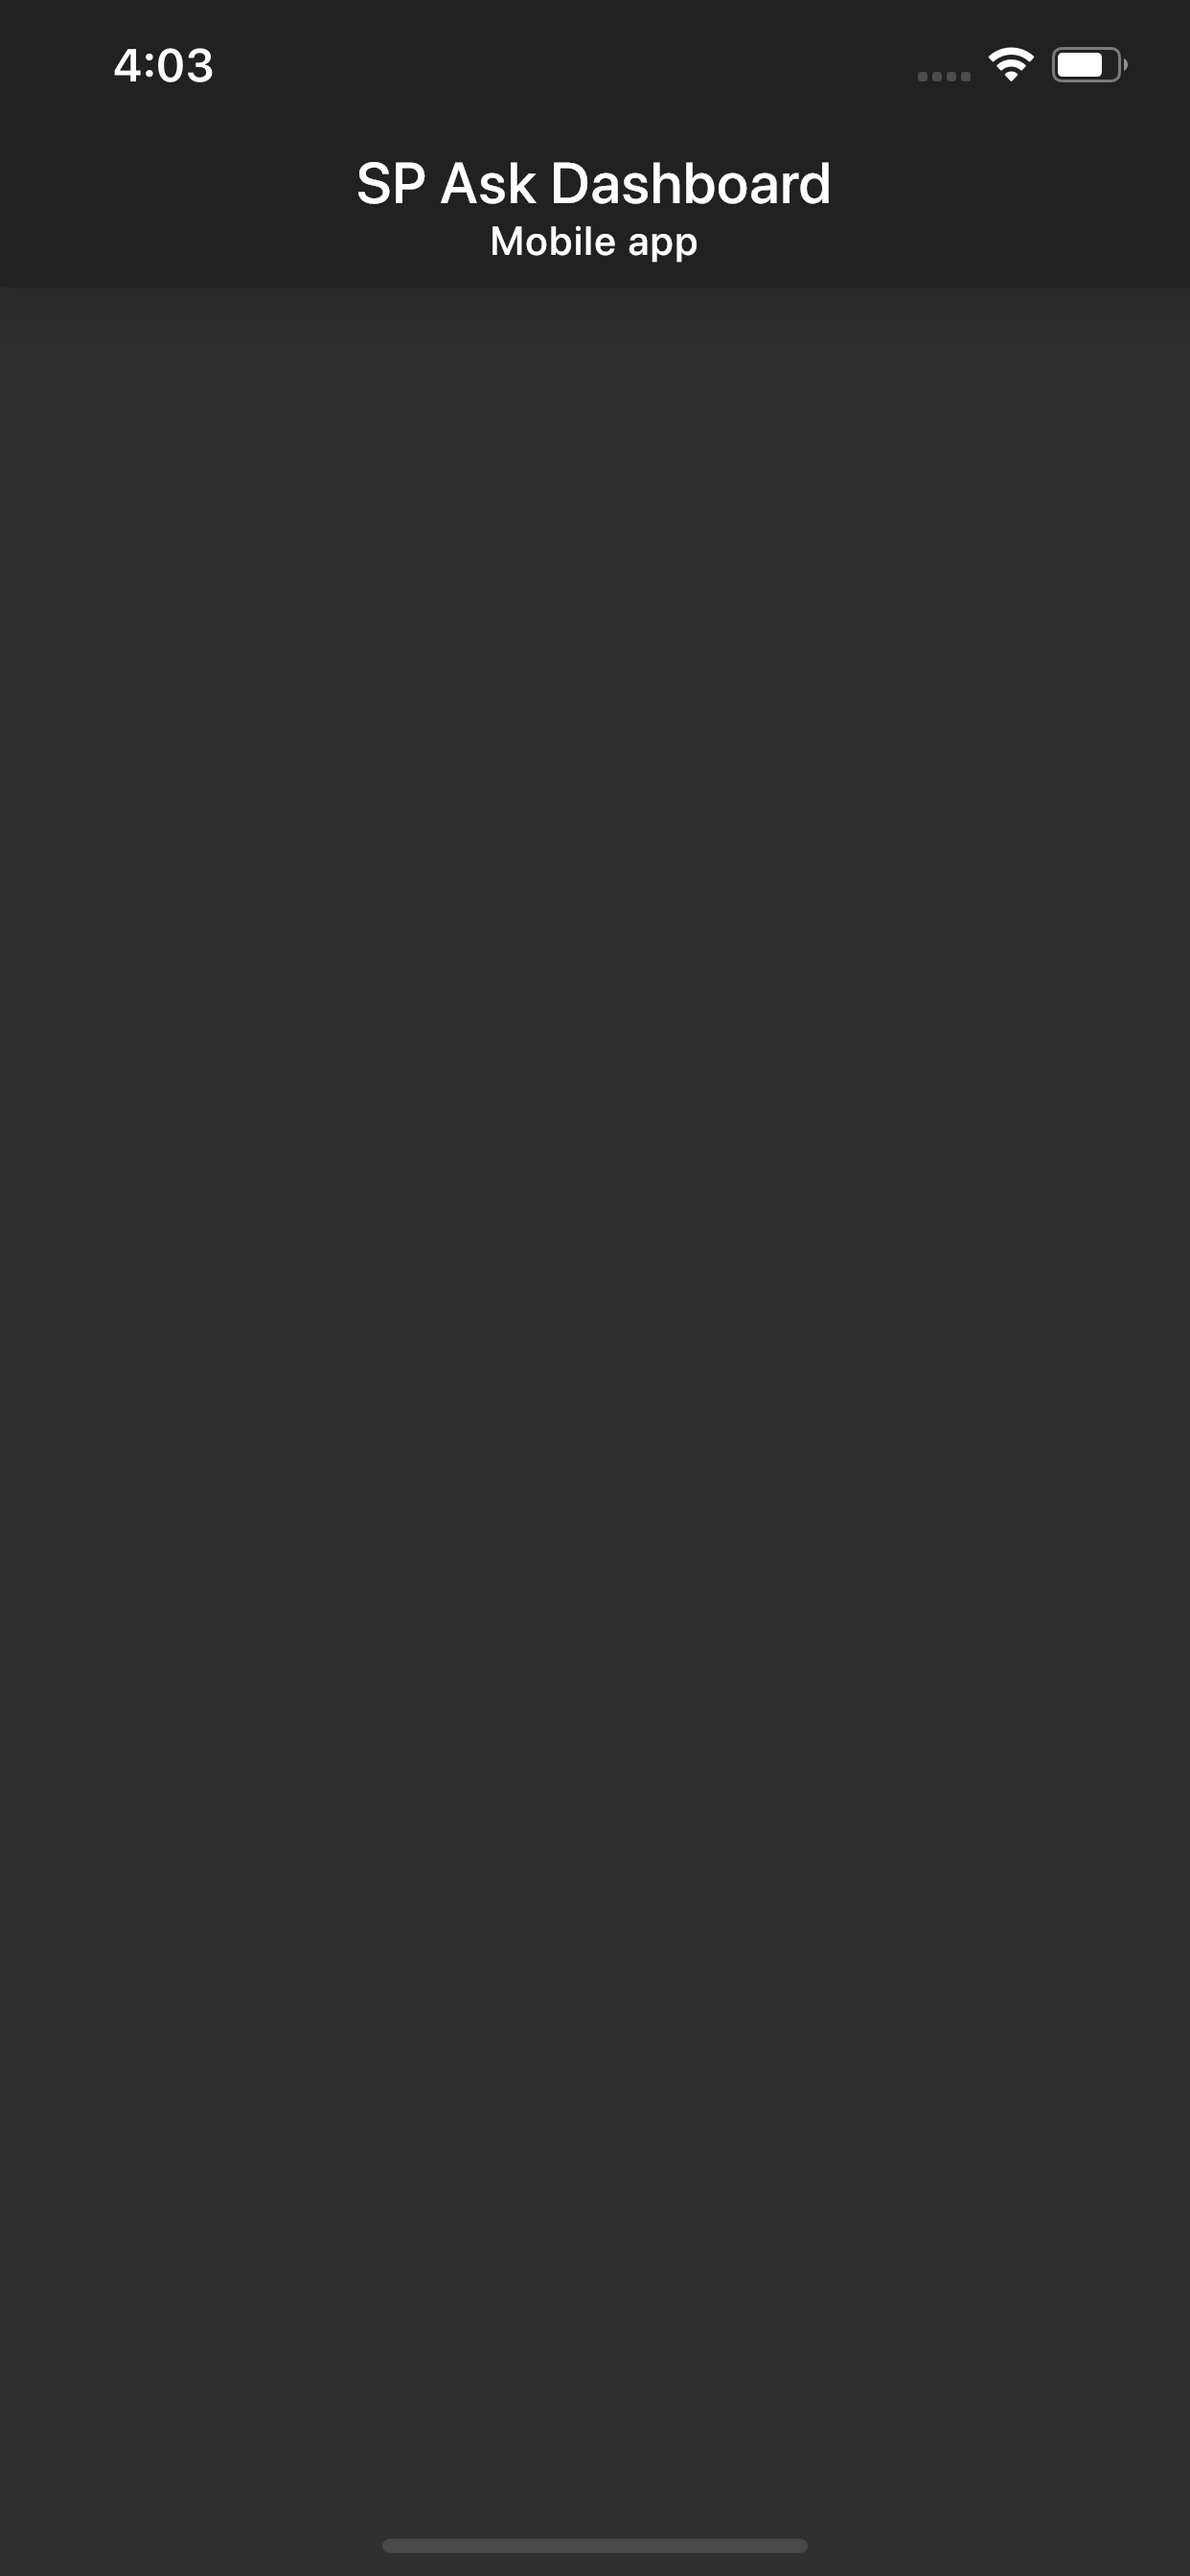
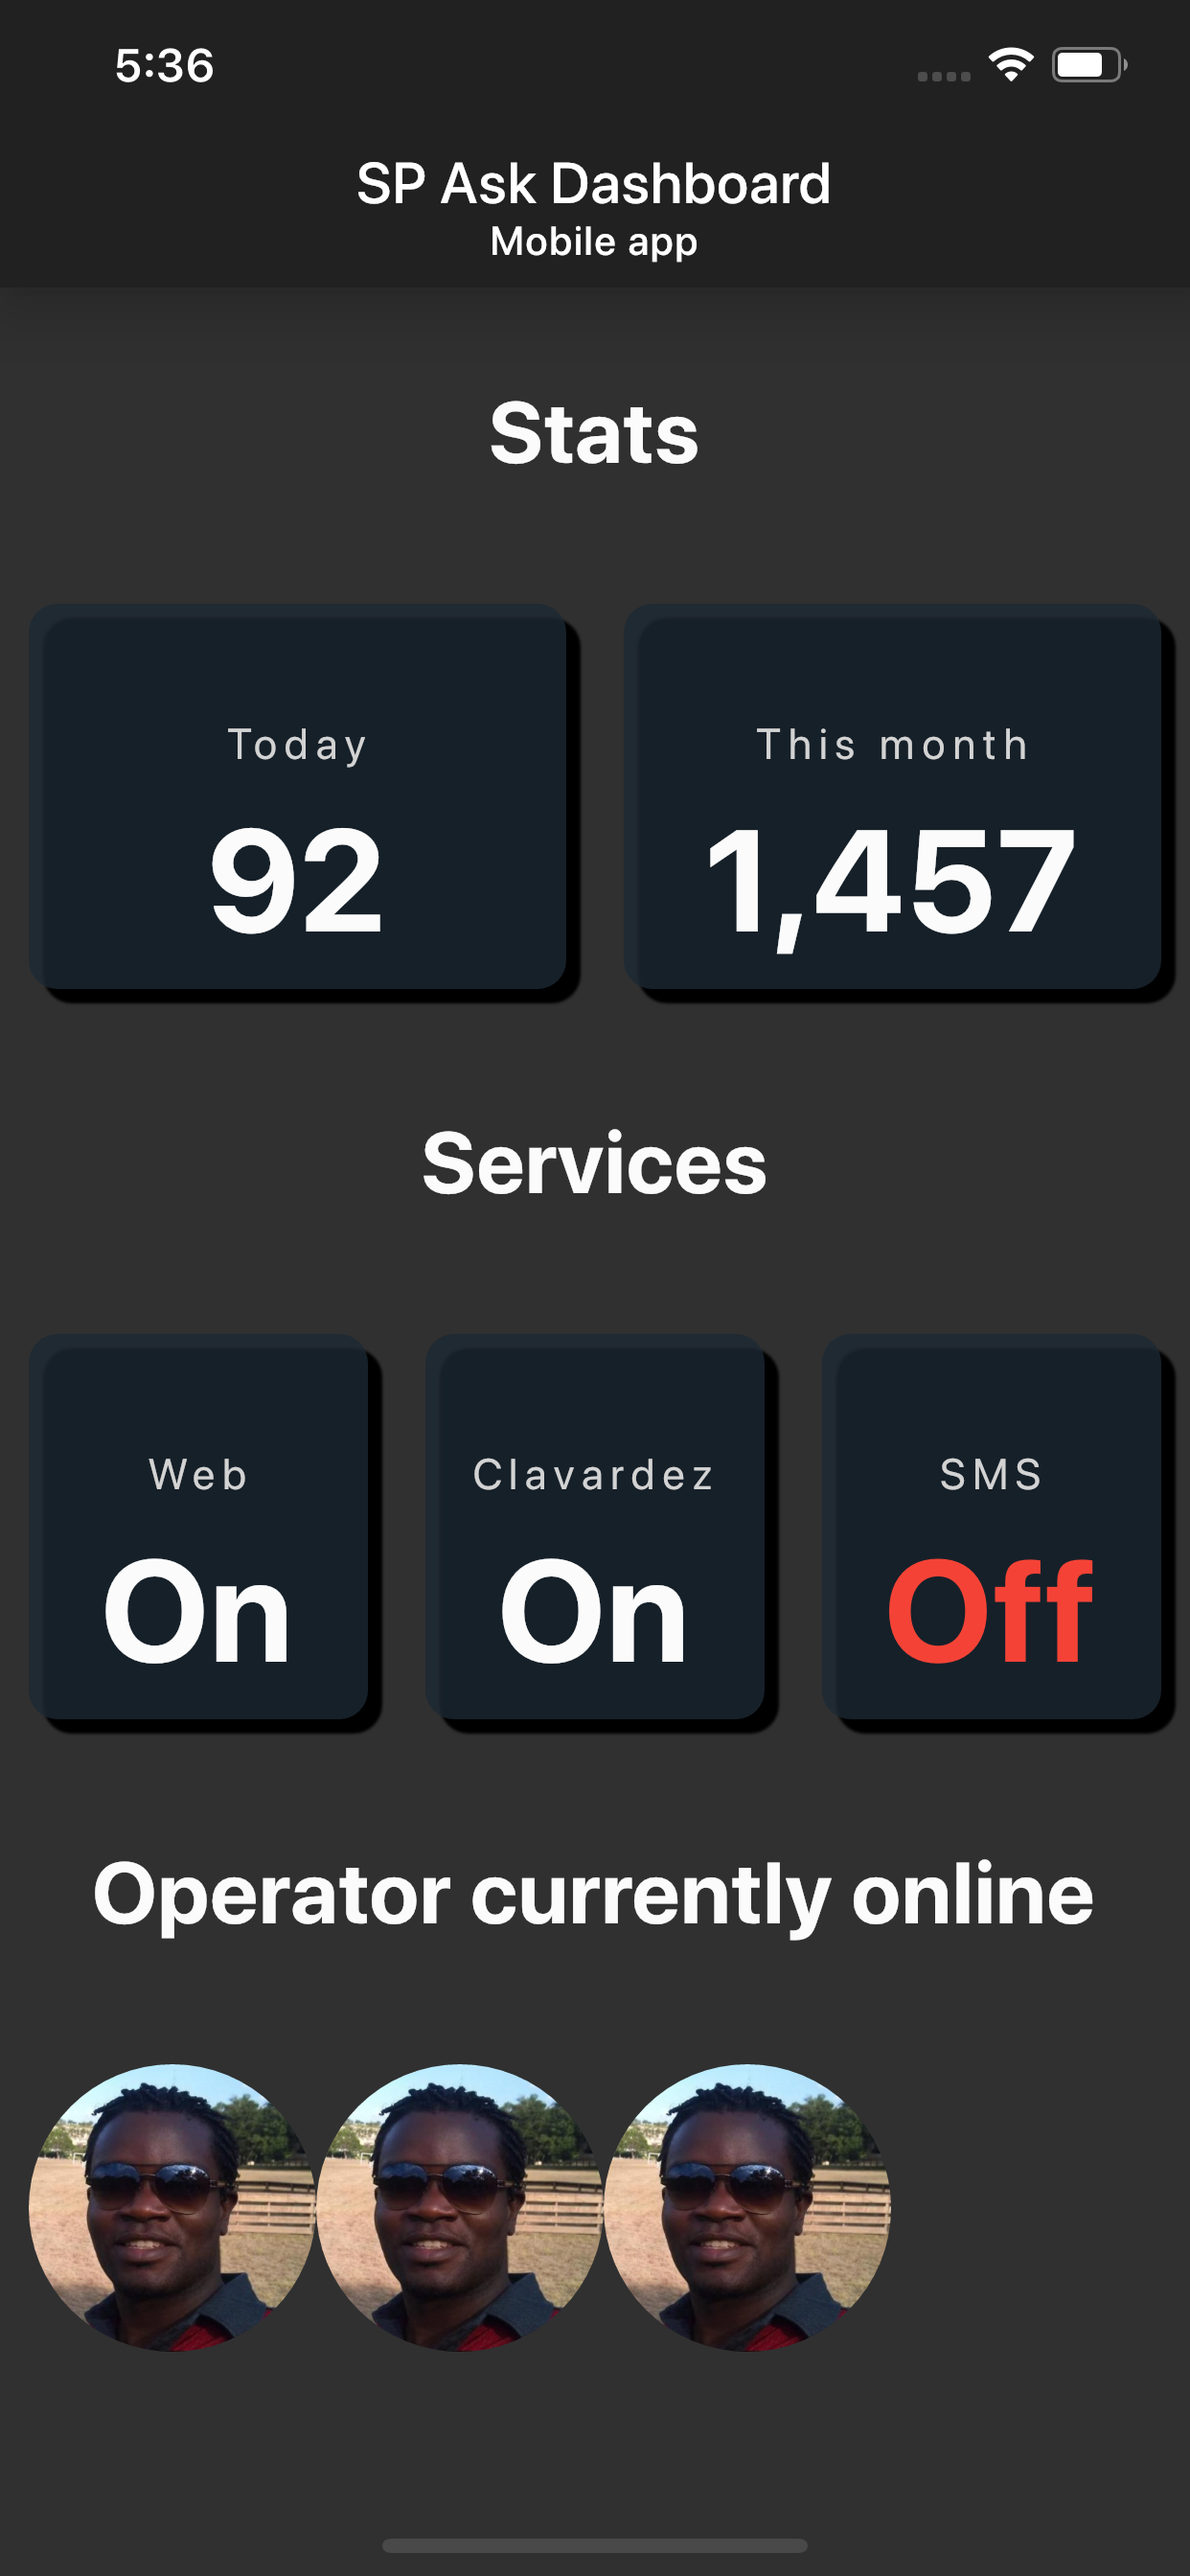
screenshots

diff --git a/lib/screens/homepage.dart b/lib/screens/homepage.dart
@@ -4,6 +4,7 @@ import 'package:flutter/services.dart';
 import 'package:sp_ask_dashboard_mobile_app_layout/screens/theame.dart';
 
 class MyApp extends StatefulWidget {
+
   MyApp({Key key}) : super(key: key);
 
   @override
@@ -11,13 +12,48 @@ class MyApp extends StatefulWidget {
 }
 
 class _MyAppState extends State<MyApp> {
+
+        final List<int> numbers = [1, 2, 3, 5, 8, 13, 21, 34, 55];
+  int age = 17;
+  int weight = 50;
+
+  int height = 180;
+  double maxHeight = 220;
+  double minHeight = 120;
+
+  ageIncrement(){
+    setState(() {
+     age++; 
+    });
+  }
+
+  ageDecrement(){
+    setState(() {
+     age--; 
+    });
+  }
+
+  weightIncrement(){
+    setState(() {
+     weight++; 
+    });
+  }
+
+  weightDecrement(){
+    setState(() {
+     weight--; 
+    });
+  }
   @override
   Widget build(BuildContext context) {
+
+
     SystemChrome.setPreferredOrientations([DeviceOrientation.portraitUp,
     DeviceOrientation.portraitDown]);
     //var deviceSize = MediaQuery.of(context).size;
 
     return MaterialApp(
+      
       theme: ThemeData.dark(),
       debugShowCheckedModeBanner: false,
       title: 'Mockup SP dashboard',
@@ -31,6 +67,7 @@ class _MyAppState extends State<MyApp> {
             mainAxisSize: MainAxisSize.max,
             mainAxisAlignment: MainAxisAlignment.center,
             children: <Widget>[
+              
               new Text(
                 "SP Ask Dashboard",
                 style: TextStyle(fontSize: 20.0),
@@ -44,30 +81,55 @@ class _MyAppState extends State<MyApp> {
         ),
       ),
        body: new Column(
+         
               //crossAxisAlignment: CrossAxisAlignment.center,
              // mainAxisAlignment: MainAxisAlignment.center,
               children: <Widget>[
+
+
+                Padding(padding: EdgeInsets.all(16.0),),
+                Row(
+                  mainAxisAlignment: MainAxisAlignment.center,
+                  children: <Widget>[
+                    Text('Stats',style: headlineTitle),
+                  ],
+                ),
+                Padding(padding: EdgeInsets.all(16.0),),
+
                 Row(
                   mainAxisAlignment: MainAxisAlignment.spaceBetween,
                   children: <Widget>[
+                    
                   // Services
 Expanded(
                   flex: 1,
                   child: Container(
                     margin: EdgeInsets.all(10.0),
-                    height: MediaQuery.of(context).size.height * 0.25,
+                    //height: MediaQuery.of(context).size.height * 0.25,
                     decoration: BoxDecoration(
+                      boxShadow: [
+                  BoxShadow(
+                    offset: Offset(
+                      5.0, // horizontal, move right 10
+                      5.0, // vertical, move down 10
+                    ),
+                  )
+                ],
                       borderRadius: BorderRadius.circular(10.0),
                       color: primary
                     ),
                     child: Column(
                       mainAxisAlignment: MainAxisAlignment.center,
                       children: <Widget>[
-                       Image.asset('images/male.png',height: 100.0,width: 100.0,),
+                       //Image.asset('images/male.png',height: 100.0,width: 100.0,),
                        SizedBox(
-                           height: 20.0,
+                           height: 40.0,
                         ),
-                       Text('MALE',style: headlines)
+                       Text('Today',style: headlines),
+                       Padding(
+                          padding: const EdgeInsets.all(8.0),
+                          child: Text("92", style: boldNumber),
+                        ),
                      ],
                       ),
                    
@@ -78,8 +140,16 @@ Expanded(
                   flex: 1,
                   child: Container(
                     margin: EdgeInsets.all(10.0),
-                    height: MediaQuery.of(context).size.height * 0.25,
+                    //height: MediaQuery.of(context).size.height * 0.25,
                     decoration: BoxDecoration(
+                      boxShadow: [
+                  BoxShadow(
+                    offset: Offset(
+                      5.0, // horizontal, move right 10
+                      5.0, // vertical, move down 10
+                    ),
+                  )
+                ],
                       borderRadius: BorderRadius.circular(10.0),
                       color: primary
                     ),
@@ -87,16 +157,209 @@ Expanded(
                       mainAxisAlignment: MainAxisAlignment.center,
                       crossAxisAlignment: CrossAxisAlignment.center,
                       children: <Widget>[
-                        Image.asset('images/female.png',height: 100.0,width: 100.0,),
+                        //Image.asset('images/female.png',height: 100.0,width: 100.0,),
                         SizedBox(
-                           height: 20.0,
+                           height: 40.0,
                         ),
-                        Text('FEMALE',style: headlines)
+                        Text('This month',style: headlines),
+                        Padding(
+                          padding: const EdgeInsets.all(8.0),
+                          child: Text("1,457", style: boldNumber),
+                        ),
                       ],
                     ),
                   ),
-                )
+                ),
+
+
+
+
               ],
+            ),
+            Padding(padding: EdgeInsets.all(16.0),),
+            Row(
+              mainAxisAlignment: MainAxisAlignment.center,
+                  children: <Widget>[
+                    Text('Services',style: headlineTitle),
+                  ],
+                ),
+                Padding(padding: EdgeInsets.all(16.0),),
+
+            Row(
+              mainAxisAlignment: MainAxisAlignment.spaceBetween,
+              children: <Widget>[
+Expanded(
+                  flex: 1,
+                  child: Container(
+                    margin: EdgeInsets.all(10.0),
+                    //height: MediaQuery.of(context).size.height * 0.25,
+                    decoration: BoxDecoration(
+                      boxShadow: [
+                  BoxShadow(
+                    offset: Offset(
+                      5.0, // horizontal, move right 10
+                      5.0, // vertical, move down 10
+                    ),
+                  )
+                ],
+                      borderRadius: BorderRadius.circular(10.0),
+                      color: primary
+                    ),
+                    child: Column(
+                      mainAxisAlignment: MainAxisAlignment.center,
+                      children: <Widget>[
+                       //Image.asset('images/male.png',height: 100.0,width: 100.0,),
+                       SizedBox(
+                           height: 40.0,
+                        ),
+                       Text('Web',style: headlines),
+                       Padding(
+                          padding: const EdgeInsets.all(8.0),
+                          child: Text("On", style: boldNumber),
+                        ),
+                     ],
+                      ),
+                   
+                  ),
+                ),
+Expanded(
+                  flex: 1,
+                  child: Container(
+                    margin: EdgeInsets.all(10.0),
+                    //height: MediaQuery.of(context).size.height * 0.25,
+                    decoration: BoxDecoration(
+                      boxShadow: [
+                  BoxShadow(
+                    offset: Offset(
+                      5.0, // horizontal, move right 10
+                      5.0, // vertical, move down 10
+                    ),
+                  )
+                ],
+                      borderRadius: BorderRadius.circular(10.0),
+                      color: primary
+                    ),
+                    child: Column(
+                      mainAxisAlignment: MainAxisAlignment.center,
+                      children: <Widget>[
+                       //Image.asset('images/male.png',height: 100.0,width: 100.0,),
+                       SizedBox(
+                           height: 40.0,
+                        ),
+                       Text('Clavardez',style: headlines),
+                       Padding(
+                          padding: const EdgeInsets.all(8.0),
+                          child: Text("On", style: boldNumber),
+                        ),
+                     ],
+                      ),
+                   
+                  ),
+                ),
+
+
+Expanded(
+                  flex: 1,
+                  child: Container(
+                    margin: EdgeInsets.all(10.0),
+                    //height: MediaQuery.of(context).size.height * 0.25,
+                    decoration: BoxDecoration(
+                      boxShadow: [
+                  BoxShadow(
+                    offset: Offset(
+                      5.0, // horizontal, move right 10
+                      5.0, // vertical, move down 10
+                    ),
+                  )
+                ],
+                      borderRadius: BorderRadius.circular(10.0),
+                      color: primary
+                    ),
+                    child: Column(
+                      mainAxisAlignment: MainAxisAlignment.center,
+                      children: <Widget>[
+                       //Image.asset('images/male.png',height: 100.0,width: 100.0,),
+                       SizedBox(
+                           height: 40.0,
+                        ),
+                       Text('SMS',style: headlines),
+                       Padding(
+                          padding: const EdgeInsets.all(8.0),
+                          child: Text("Off", style: TextStyle(color: Colors.red,fontWeight: FontWeight.bold,fontSize: 50.0)),
+                        ),
+                     ],
+                      ),
+                   
+                  ),
+                ),
+
+            ],
+            ),
+
+Padding(padding: EdgeInsets.all(16.0),),
+            Row(
+              mainAxisAlignment: MainAxisAlignment.center,
+                  children: <Widget>[
+                    Text('Operator currently online',style: headlineTitle),
+                  ],
+                ),
+            
+            Padding(padding: EdgeInsets.all(16.0),),
+
+            Row(
+              mainAxisAlignment: MainAxisAlignment.spaceBetween,
+              children: <Widget>[
+
+Container(
+  padding: EdgeInsets.all(10.0),
+child: Row(
+  children: <Widget>[
+ClipOval(
+  child: Image.network(
+    'https://avatars1.githubusercontent.com/u/4588993?s=400&v=4',
+    width: 100,
+    height: 100,
+    fit: BoxFit.cover,
+  ),
+),
+ClipOval(
+  child: Image.network(
+    'https://avatars1.githubusercontent.com/u/4588993?s=400&v=4',
+    width: 100,
+    height: 100,
+    fit: BoxFit.cover,
+  ),
+),
+      
+      ClipOval(
+  child: Image.network(
+    'https://avatars1.githubusercontent.com/u/4588993?s=400&v=4',
+    width: 100,
+    height: 100,
+    fit: BoxFit.cover,
+  ),
+),
+
+  
+  ],
+),
+
+
+),          
+
+
+
+      
+                  
+
+
+
+            ],
+            ),
+
+            Row(children: <Widget>[
+
+            ],
             ),
             
                   ],

diff --git a/lib/screens/theame.dart b/lib/screens/theame.dart
@@ -9,6 +9,8 @@ Color secondaryButtonColor = HexColor("212f3c");
 
 TextStyle headlines = TextStyle(letterSpacing: 2.0,fontSize: 15, color: HexColor("d3d3d3"));
 TextStyle boldNumber = TextStyle(color: HexColor("fbfbfb"), fontWeight: FontWeight.bold,fontSize: 50.0);
+TextStyle boldNumberRed = TextStyle(color: Colors.red, fontWeight: FontWeight.bold,fontSize: 50.0);
+TextStyle headlineTitle = TextStyle(color: HexColor("fbfbfb"), fontWeight: FontWeight.bold,fontSize: 30.0);
 TextStyle secondaryButtonColorStyle = TextStyle(color: secondaryButtonColor, fontWeight: FontWeight.bold,fontSize: 26.0);
 TextStyle primaryButtonStyle = TextStyle( fontSize: 18, fontWeight: FontWeight.normal, letterSpacing: 1,wordSpacing: 2, color: secondaryButtonColor);
 TextStyle resultNumber = TextStyle(color: HexColor("fbfbfb"), fontWeight: FontWeight.bold,fontSize: 80.0,letterSpacing: 0.1);
